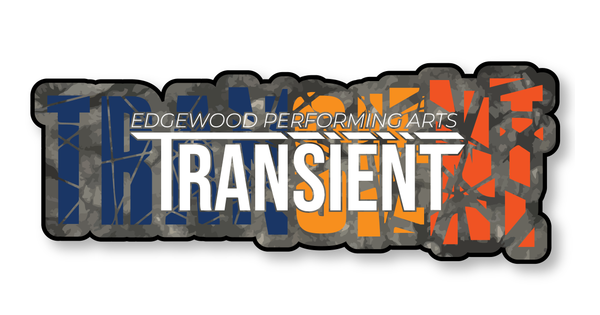
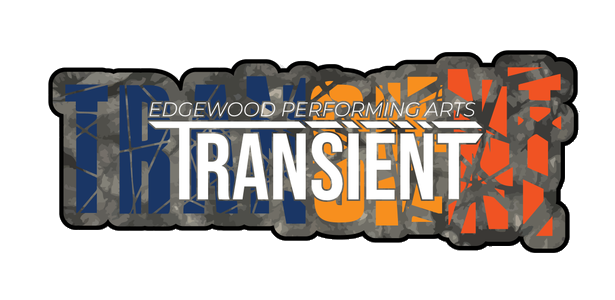
Update image

diff --git a/app/src/pages/AboutPage.jsx b/app/src/pages/AboutPage.jsx
@@ -31,7 +31,7 @@ const AboutPage = () => {
                 <img 
                   src="/transient.png" 
                   alt="Transient" 
-                  className="h-8 mt-0.5 mx-auto"
+                  className="h-8 mx-auto"
                   onError={(e) => {
                     e.target.style.display = 'none';
                   }}

diff --git a/app/src/pages/HomePage.jsx b/app/src/pages/HomePage.jsx
@@ -52,7 +52,7 @@ const HomePage = () => {
                 <img 
                   src="/transient.png" 
                   alt="Transient" 
-                  className="h-16 mt-1 mx-auto"
+                  className="h-16 mx-auto"
                   onError={(e) => {
                     e.target.style.display = 'none';
                   }}

diff --git a/app/src/pages/MovementSelectionPage.jsx b/app/src/pages/MovementSelectionPage.jsx
@@ -75,7 +75,7 @@ const MovementSelectionPage = () => {
               <img 
                 src="/transient.png" 
                 alt="Transient" 
-                className="h-8 mt-1 mx-auto"
+                className="h-8 mx-auto"
                 onError={(e) => {
                   e.target.style.display = 'none';
                 }}
